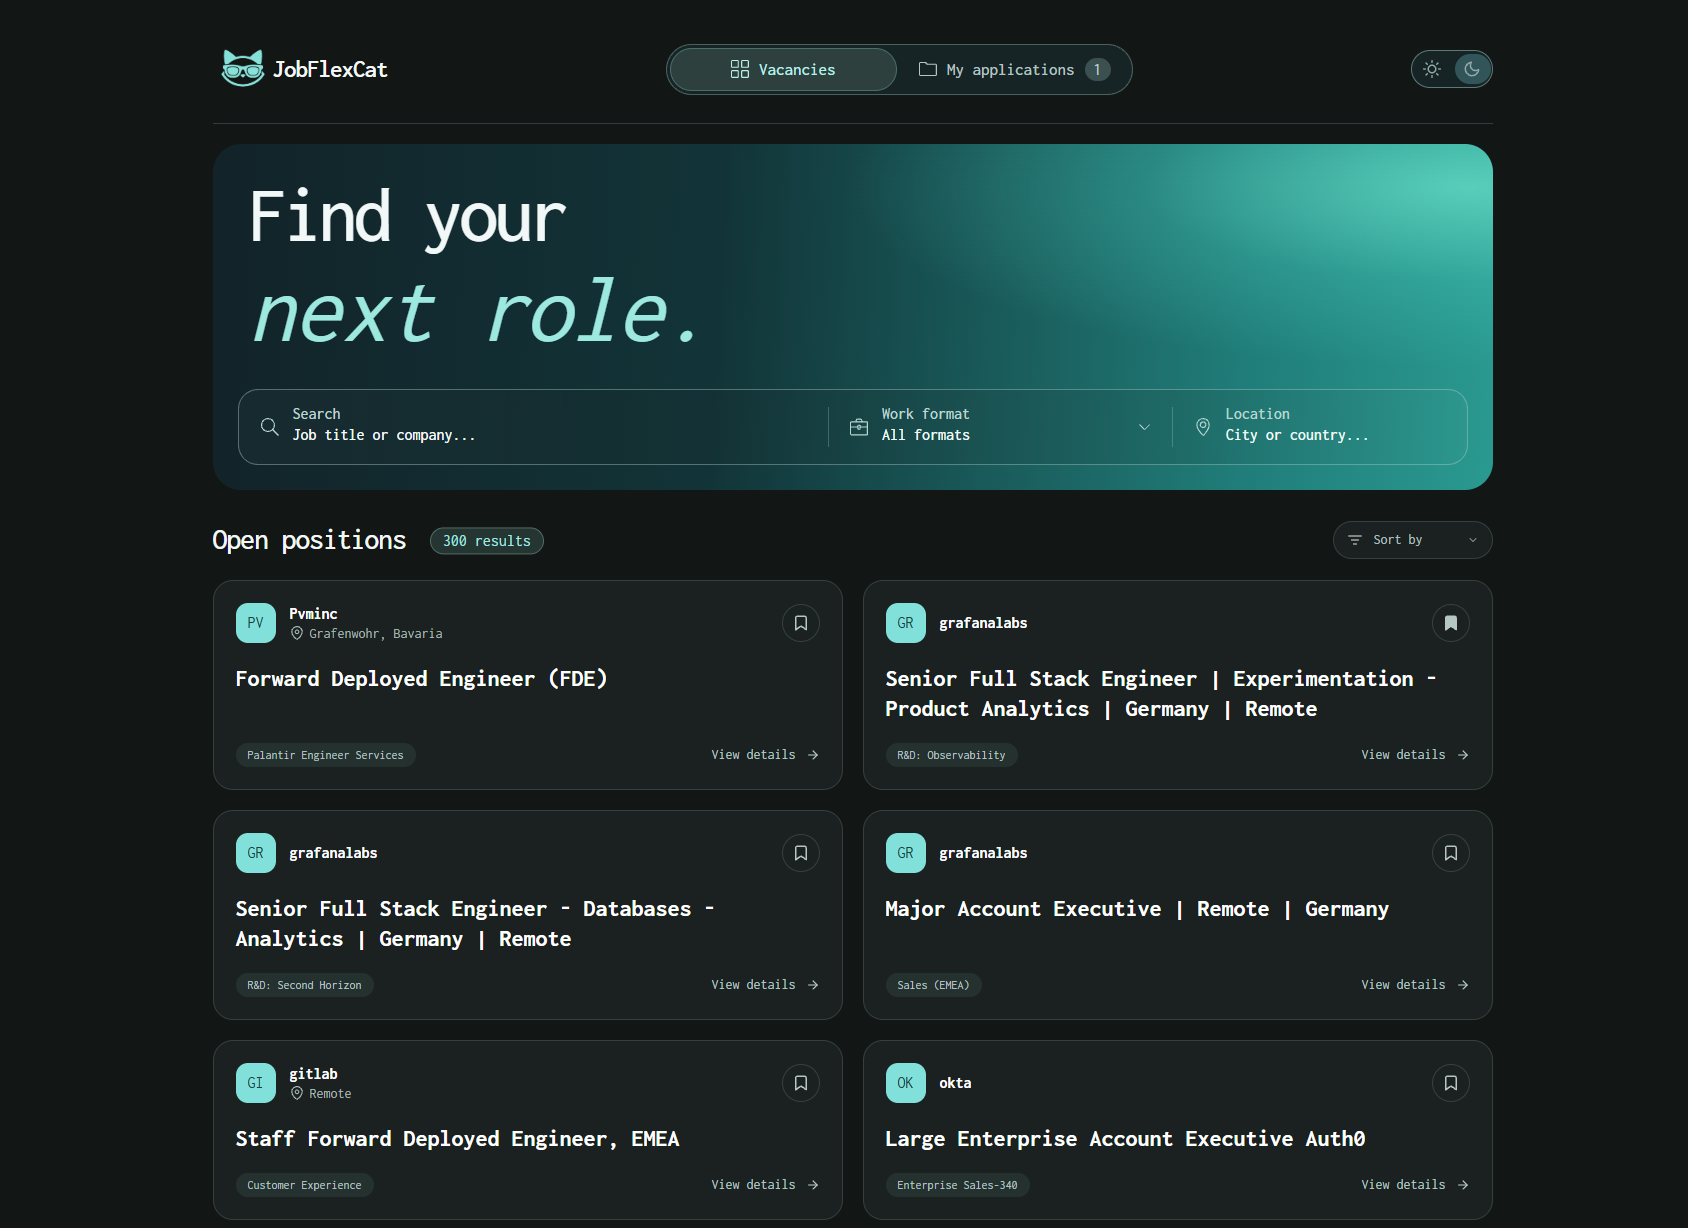
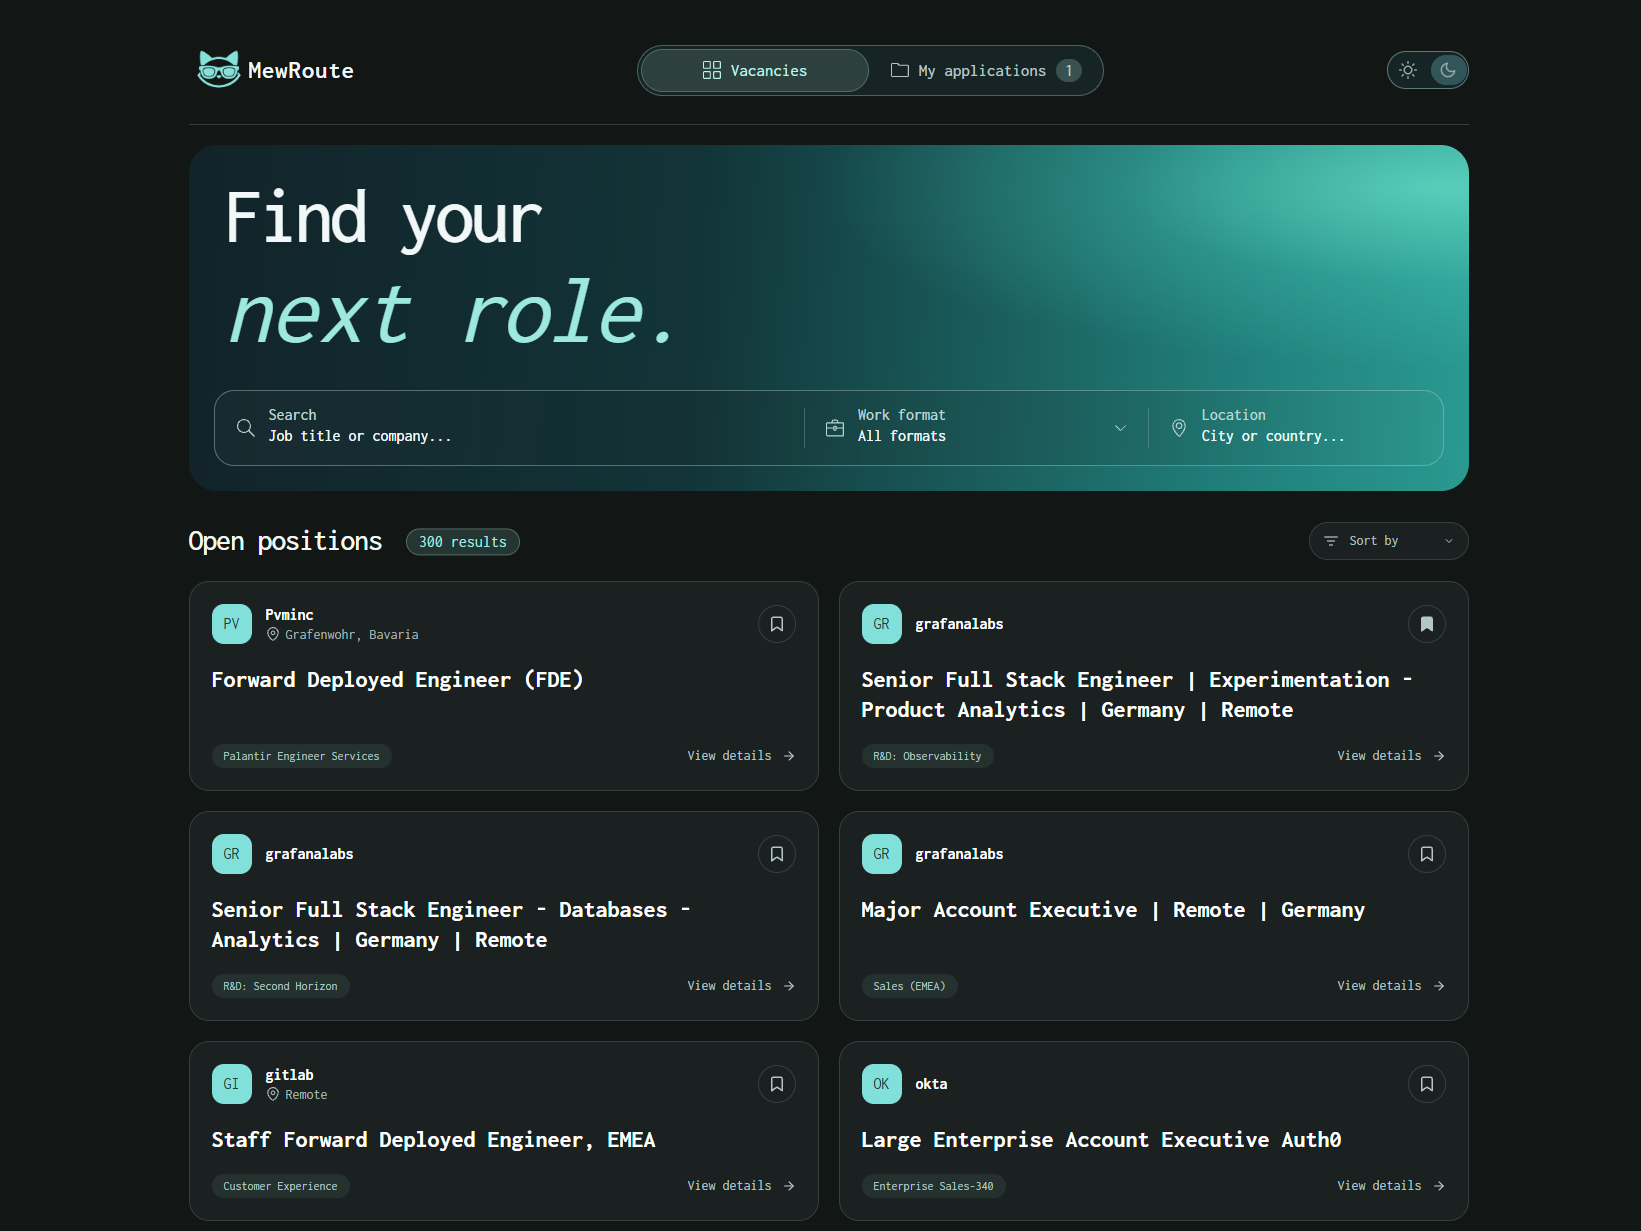
rebrand project to MewRoute

diff --git a/src/components/Header.jsx b/src/components/Header.jsx
@@ -9,10 +9,10 @@ export default function Header({ count }) {
     <header className="header">
       <div className="logo-container">
 
-        <img src={logo} alt="catlogo" className="logo-img" />
+        <img src={logo} alt="MewRoute logo" className="logo-img" />
 
         <div>
-          <span className="logo">JobFlexCat</span>
+          <span className="logo">MewRoute</span>
         </div>
       </div>
       <Navigation count={count} />

diff --git a/src/components/Footer.jsx b/src/components/Footer.jsx
@@ -3,7 +3,7 @@ export default function Footer() {
   return (
     <footer className="footer">
       <div>
-        <p className="footer-brand">JobFlexCat</p>
+        <p className="footer-brand">MewRoute</p>
         <small>&copy; {new Date().getFullYear()} FinrichEu</small>
       </div>
       <p className="footer-description">

diff --git a/index.html b/index.html
@@ -12,7 +12,7 @@
         document.documentElement.dataset.theme = 'light';
       }
     </script>
-    <title>jobflexcat</title>
+    <title>MewRoute</title>
   </head>
   <body>
     <div id="root"></div>

diff --git a/src/index.css b/src/index.css
@@ -73,7 +73,7 @@ header .logo {
   font-weight: 600;
   font-size: 25px;
   line-height: 160%;
-  letter-spacing: -0.04em;
+  letter-spacing: 0.05rem;
   color: var(--text, #f3f8f7);
 }
 

diff --git a/README.md b/README.md
@@ -1,8 +1,8 @@
-# JobFlexCat
+# MewRoute
 
 A React application for searching, exploring, and saving job opportunities in Germany.
 
-JobFlexCat is an independently developed portfolio project covering frontend development, integration with the external Arbeitnow API, client-side routing, state management, and browser-based data persistence.
+MewRoute is an independently developed portfolio project covering frontend development, integration with the external Arbeitnow API, client-side routing, state management, and browser-based data persistence.
 
 ## Features
 
@@ -36,13 +36,13 @@ JobFlexCat is an independently developed portfolio project covering frontend dev
 Clone the repository:
 
 ```bash
-git clone https://github.com/FinrichEu/JobFlexCat.git
+git clone https://github.com/FinrichEu/MewRoute.git
 ```
 
 Navigate to the project directory:
 
 ```bash
-cd JobFlexCat
+cd MewRoute
 ```
 
 Install dependencies:
